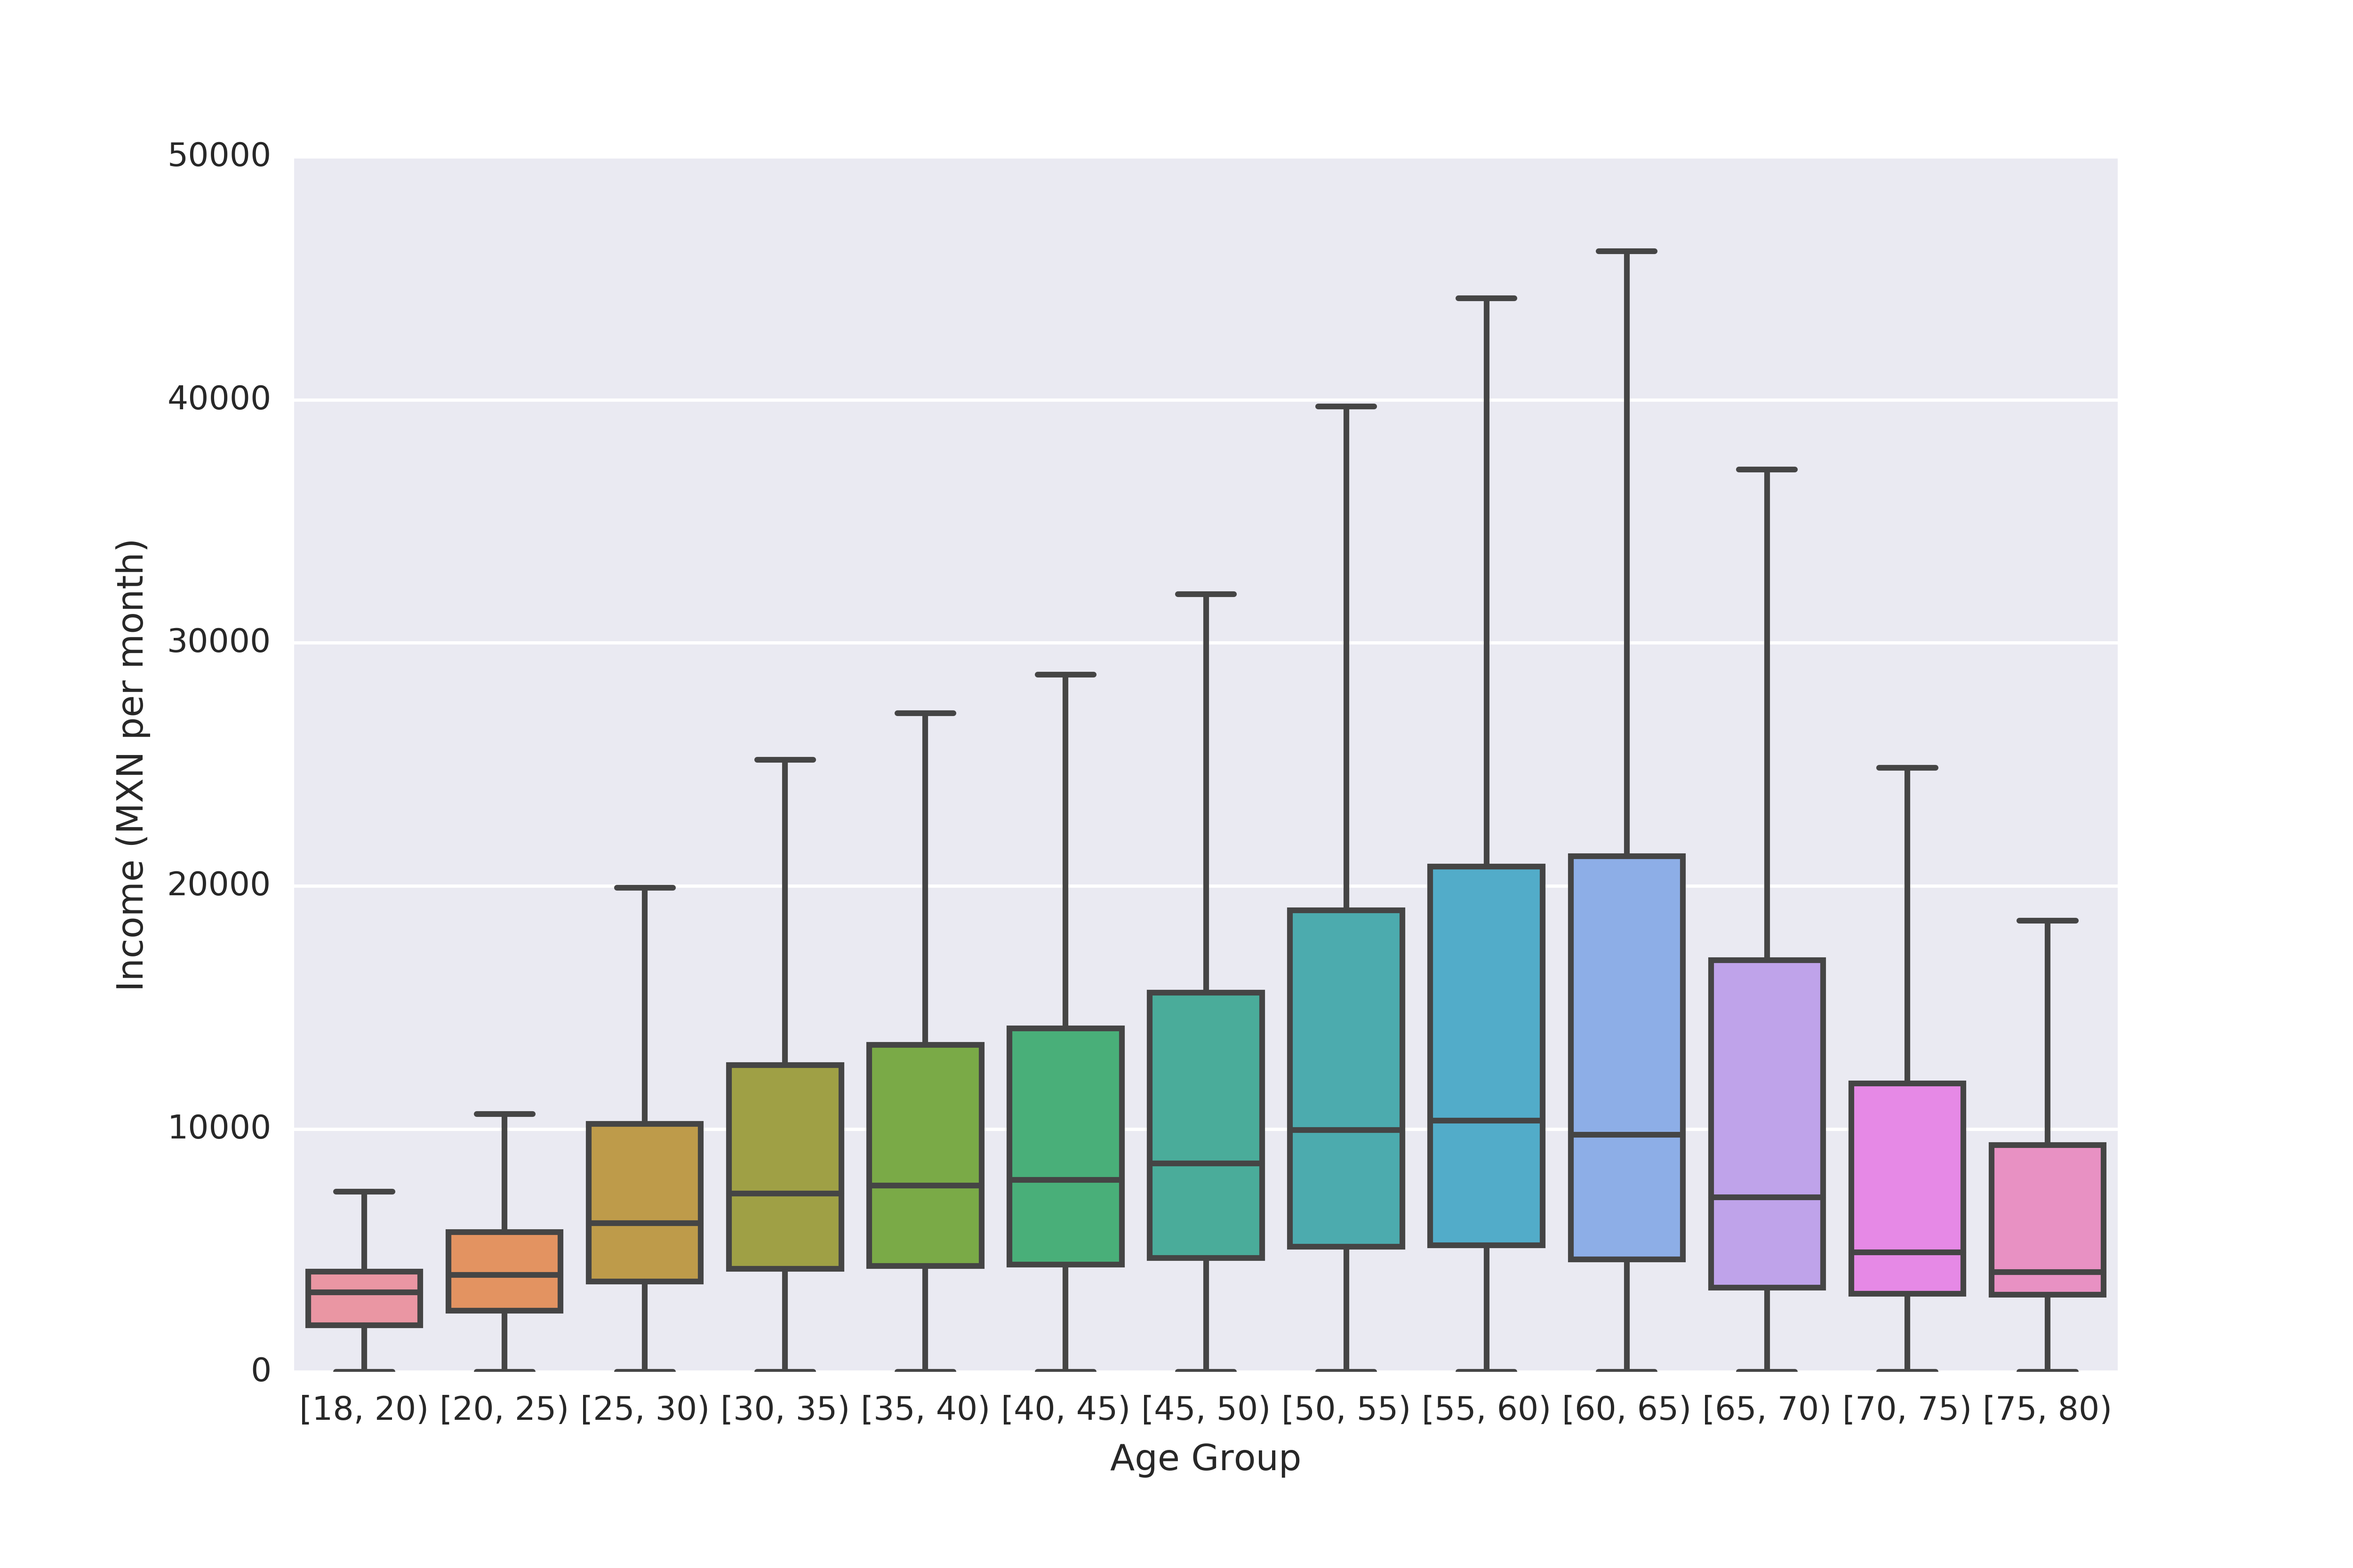
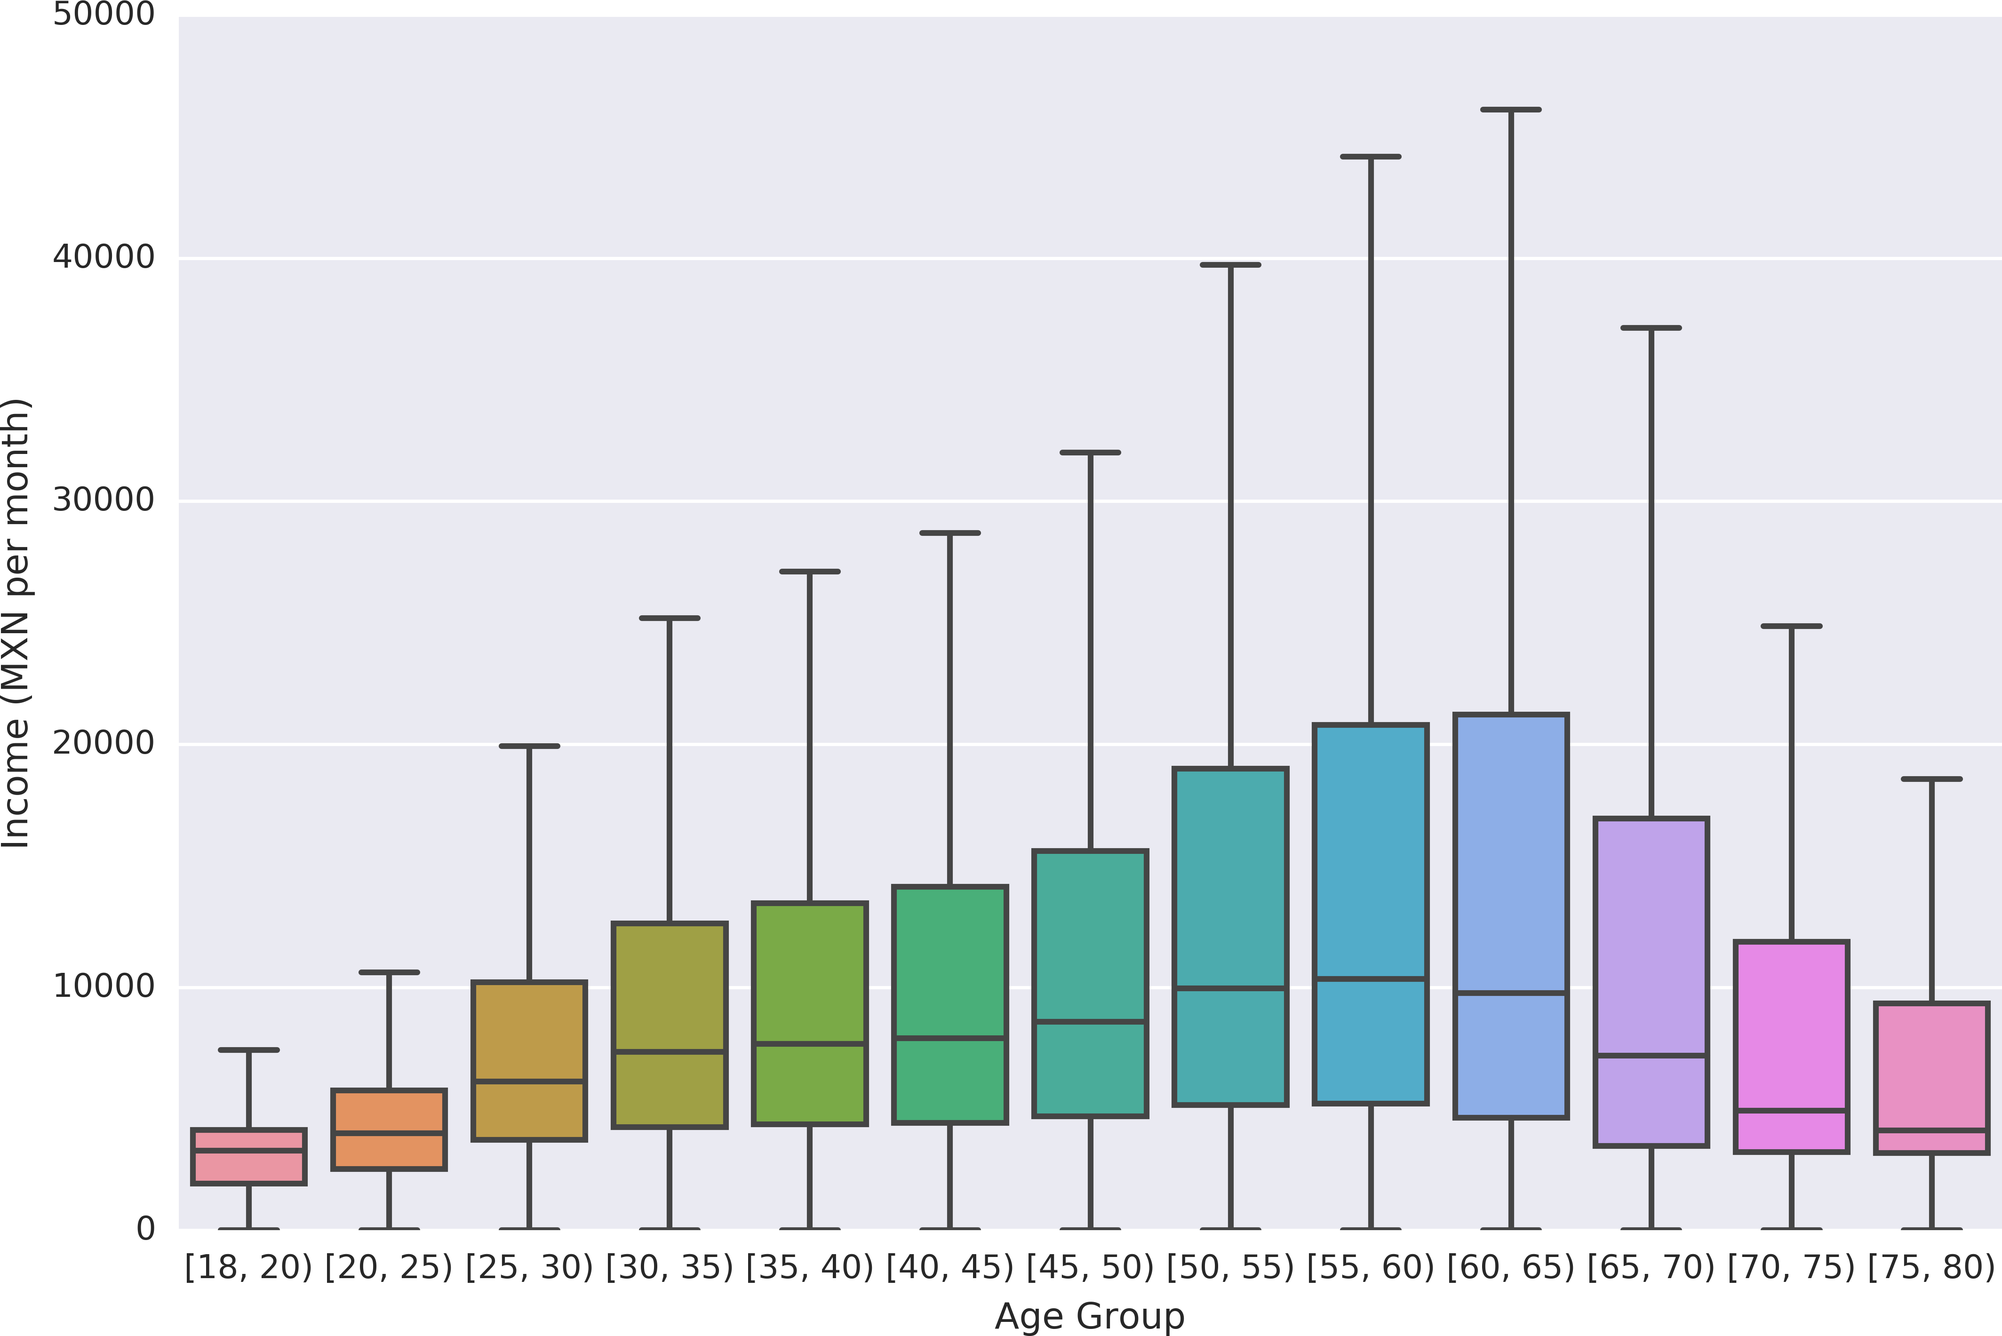
Data Sources.

diff --git a/Asonam2016/presentation/presentation.tex b/Asonam2016/presentation/presentation.tex
@@ -2,7 +2,14 @@
 \mode<presentation>{\usetheme{Warsaw}}
 
 \usepackage[citestyle=authortitle-icomp]{biblatex}
+\usepackage[group-separator={,}]{siunitx}
 \usepackage{tikz}
+
+\newcommand{\mathA}{\mathcal{A}}
+\newcommand{\mathB}{\mathcal{B}}
+\newcommand{\mathC}{\mathcal{C}}
+\newcommand{\mathG}{\mathcal{G}}
+\newcommand{\mathP}{\mathcal{P}}
 
 \title[Bayesian Income Inference \hspace{3em} IEEE/ACM ASONAM 2016]{A Bayesian Approach to Income Inference \\ in a Communication Network}
 
@@ -61,5 +68,36 @@ In this work, we leverage the socioeconomic homophily present in the cellular ph
 	\item Reported income from a subset of clients obtained from a large bank.
 \end{enumerate}
 \end{frame}
+
+\section{Data Sources}
+\subsection{Bank Data Source}
+
+\begin{frame}{Bank Data Source}
+For this study, we got access the account balances of over 10 million clients of a mexican bank for a period of 6 months, denoted \( \mathB \). We also have some demografic information of a subset \( \mathA \subseteq \mathB \), including the users' age.
+
+\begin{figure}[h]
+	\begin{center}
+		{\includegraphics[width=\columnwidth]
+				{../figures/income_age_boxplot4/income_age_boxplot4_wide.png}
+		}\label{income_age_boxplot}
+	\end{center}
+\end{figure}
+\end{frame}
+
+\subsection{Mobile Phone Data Source}
+
+\begin{frame}{Mobile Phone Data Source}
+The main dataset for this study consists of a set \( \mathP \) of \textit{Call Detail Records} composed of voice calls and text messages from a Mexican telco for a 3 month period. Since we only have complete data for users of the telco, we work on set of calls \( \mathG_N \) between these users.
+
+\medskip
+
+The data in \( \mathB \) contains the self-reported phone numbers of the bank user, which the bank hashes with the same function as the telco uses for the CDRs. Thanks to this fact, we can correlate telco users with bank users to create the \textbf{social graph} \( G \).
+\[
+	G = \mathP \bowtie_{\operatorname{originUser}} \mathB \bowtie_{\operatorname{targetUser}} \mathB
+\]
+
+This graph has a total of \num{2027554} nodes with \num{5044976} edges, which represent \num{29599762} calls and \num{5476783} text messages.
+\end{frame}
+
 
 \end{document}
